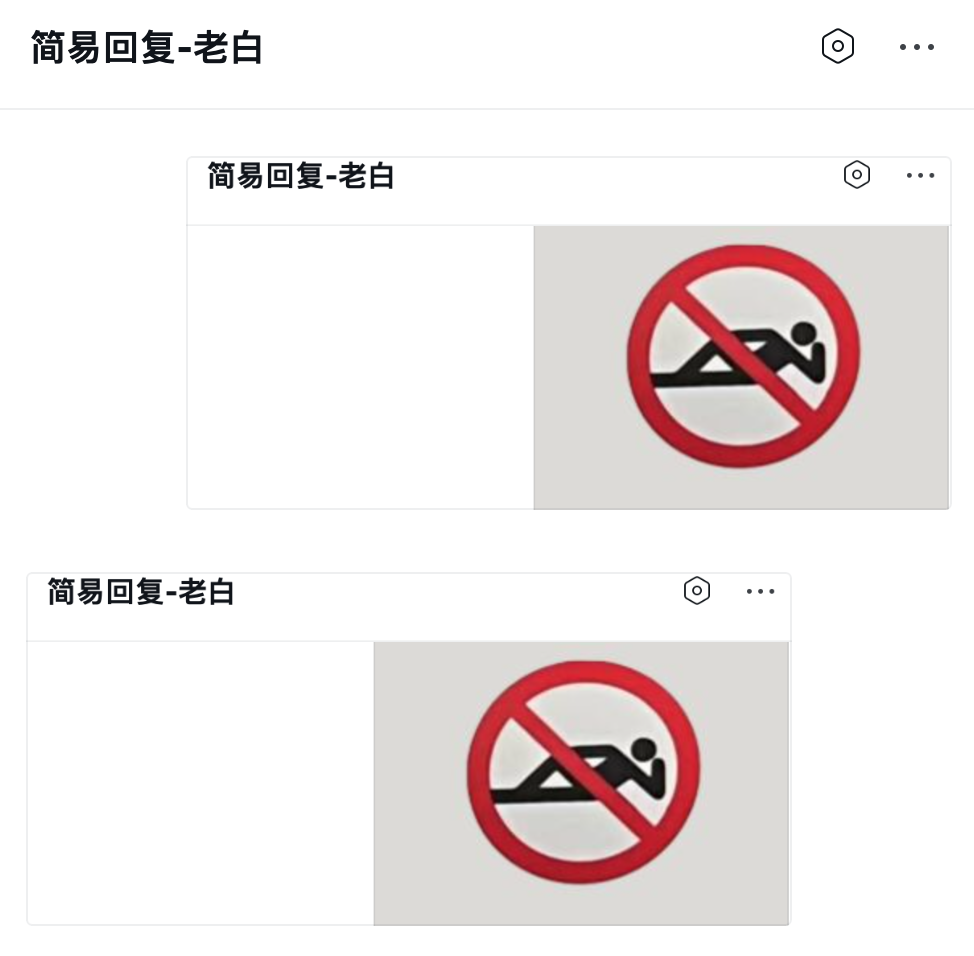
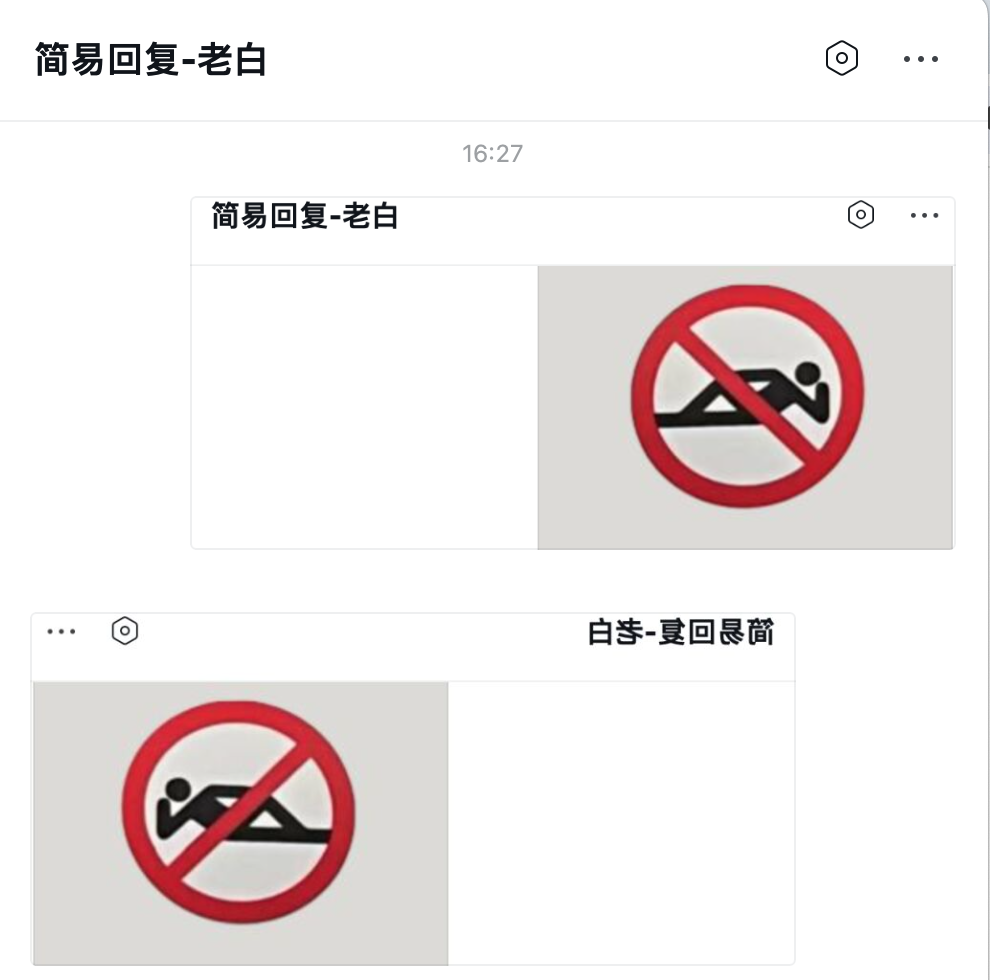
Update image

diff --git a/README.md b/README.md
@@ -17,8 +17,6 @@
 
 <img src="./images/demo_1.png" alt="demo_1" style="zoom:50%;" />
 
-<img src="images/demo.png" alt="demo" style="max-width: 500px;" />
-
 这个 Echo 只为简单展示，而你可以基于该框架，实现更多的功能逻辑，甚至像我一样接入大模型，图片横向翻转表示图片处理能力：
 
 <img src="./images/demo_2.png" alt="demo_2" style="zoom:33%;" />
